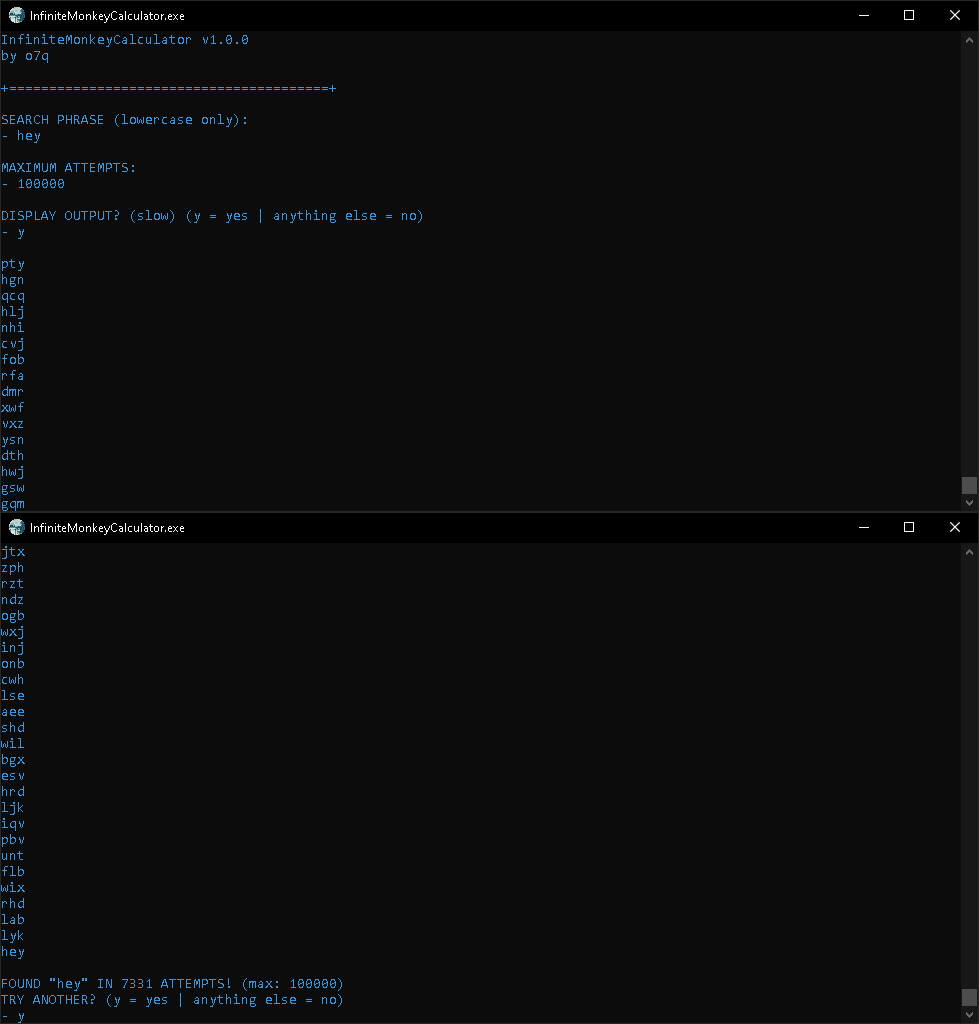
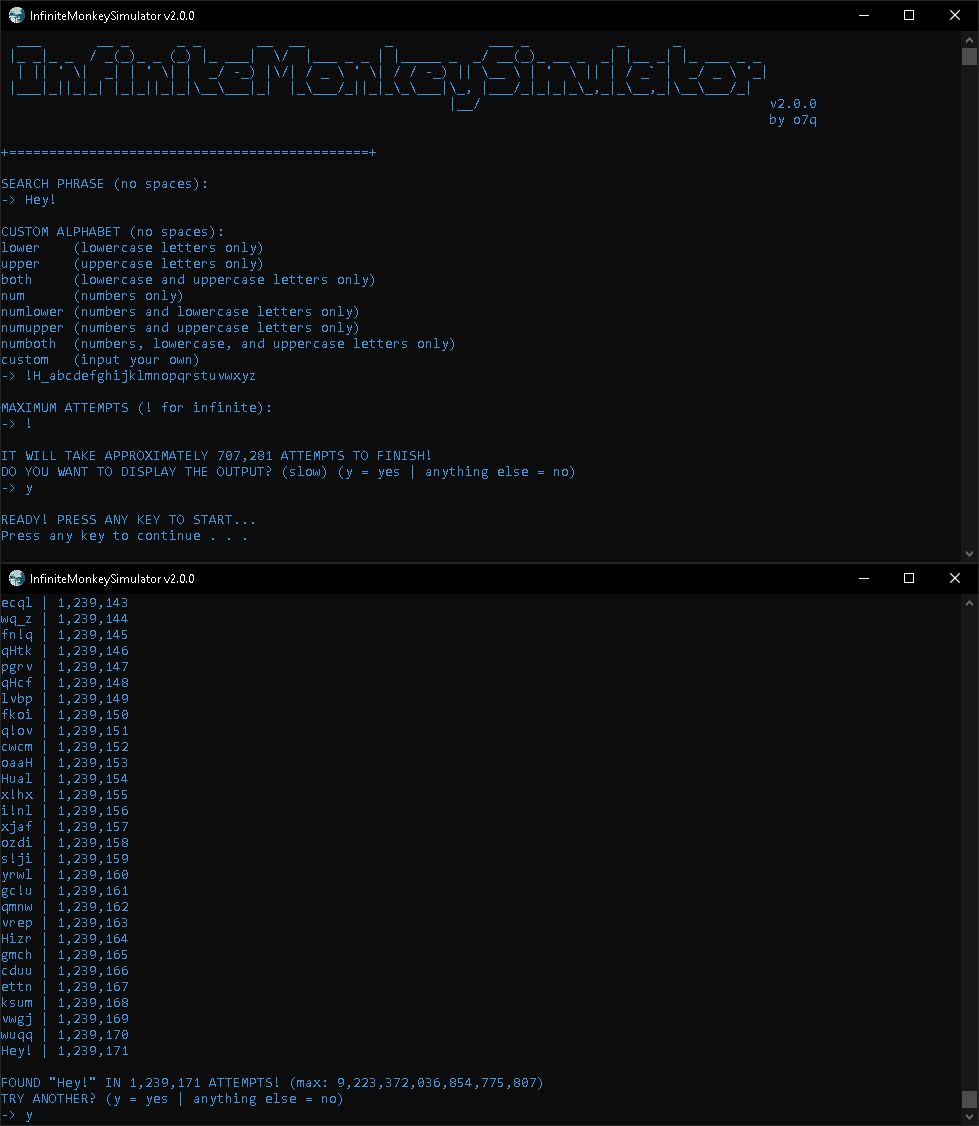
Major Update [v2.0.0]
- Change name from "InfiniteMonkeyCalculator" to "InfiniteMonkeySimulator"
- Added a new feature to specify a custom alphabet
- Made the numbers comma-separated by magnitude
- Added a feature to specify an infinite amount of attempts (capped at the 64-bit integer limit)
- Improved interface

diff --git a/src/InfiniteMonkeySimulator/main.cpp b/src/InfiniteMonkeySimulator/main.cpp
@@ -1,0 +1,172 @@
+#include <iostream>
+#include <string>
+#include <ctime>
+#include <random>
+#include <bits/stdc++.h>
+
+using namespace std;
+
+string formNum(long long int rawNum);
+string strRep(string charIn, int amount);
+void cc();
+
+const string ver = "v2.0.0";
+
+main()
+{
+    system(("title InfiniteMonkeySimulator " + ver).c_str());
+    system("color 3");
+    cout << "  ___       __ _      _ _       __  __          _            ___ _           _      _           \n"
+            " |_ _|_ _  / _(_)_ _ (_) |_ ___|  \\/  |___ _ _ | |_____ _  _/ __(_)_ __ _  _| |__ _| |_ ___ _ _ \n"
+            "  | || ' \\|  _| | ' \\| |  _/ -_) |\\/| / _ \\ ' \\| / / -_) || \\__ \\ | '  \\ || | / _` |  _/ _ \\ '_|\n"
+            " |___|_||_|_| |_|_||_|_|\\__\\___|_|  |_\\___/_||_|_\\_\\___|\\_, |___/_|_|_|_\\_,_|_\\__,_|\\__\\___/_|  \n"
+            "                                                        |__/                                    ";
+    cout << ver + "\n" + strRep(" ", 96) + "by o7q\n";
+    
+    while (true)
+    {
+        cout << "\n+" + strRep("=", 45) + "+\n";
+
+        cout << "\nSEARCH PHRASE (no spaces):\n-> ";
+        string input; cin >> input; cc();
+
+        // alphabet configuration
+
+        // alphabet input
+        cout << "\nCUSTOM ALPHABET (no spaces):\n"
+                "lower    (lowercase letters only)\n"
+                "upper    (uppercase letters only)\n"
+                "both     (lowercase and uppercase letters only)\n"
+                "num      (numbers only)\n"
+                "numlower (numbers and lowercase letters only)\n"
+                "numupper (numbers and uppercase letters only)\n"
+                "numboth  (numbers, lowercase, and uppercase letters only)\n"
+                "custom   (input your own)\n-> ";
+        string alphabet_input; cin >> alphabet_input; cc();
+        // declare alphabet information
+        string alphabet;
+        string alphabet_types[] =
+            {
+                "lower",
+                "upper",
+                "both",
+                "num",
+                "numlower",
+                "numupper",
+                "numboth"
+            };
+        string alphabet_dictionary[] =
+            {
+                "abcdefghijklmnopqrstuvwxyz",
+                "ABCDEFGHIJKLMNOPQRSTUVWXYZ",
+                "abcdefghijklmnopqrstuvwxyzABCDEFGHIJKLMNOPQRSTUVWXYZ",
+                "0123456789",
+                "0123456789abcdefghijklmnopqrstuvwxyz",
+                "0123456789ABCDEFGHIJKLMNOPQRSTUVWXYZ",
+                "0123456789abcdefghijklmnopqrstuvwxyzABCDEFGHIJKLMNOPQRSTUVWXYZ"
+            };
+        // process alphabet
+        for (int i = 0; i <= 7; i++) if (alphabet_input == alphabet_types[i]) alphabet = alphabet_dictionary[i];
+        // handle custom alphabet
+        int alphabet_type_index = 0;
+        for (int i = 0; i < 7; i++) if (alphabet_input != alphabet_types[i]) alphabet_type_index++;
+        if (alphabet_type_index == sizeof(alphabet_types) / sizeof(alphabet_types[0])) alphabet = alphabet_input;
+
+        cout << "\nMAXIMUM ATTEMPTS (! for infinite):\n-> ";
+        string attempts_str; cin >> attempts_str; cc();
+        long long int attempts = attempts_str == "!" ? 9223372036854775807 : stoi(attempts_str);
+
+        // compute attempts
+        const int input_length = input.length();
+        const int alphabet_length = alphabet.length();
+        const long long int attemptsApprox = pow(alphabet_length, input_length) + 1;
+        const string attemptsText = attempts == 1 ? "ATTEMPT" : "ATTEMPTS";
+
+        // create vars
+        int attempt = 0;
+        string finalStr;
+        bool isRunning = true;
+        // mersenne twister
+        srand(time(NULL));
+        mt19937 gen(rand());
+        uniform_int_distribution<> dist(0, alphabet_length - 1);
+
+        // split alphabet in chars
+        string s(alphabet);
+        vector<char> v(s.begin(), s.end());
+
+        cout << "\nIT WILL TAKE APPROXIMATELY " + formNum(attemptsApprox) + " ATTEMPTS TO FINISH!\nDO YOU WANT TO DISPLAY THE OUTPUT? (slow) (y = yes | anything else = no)\n-> ";
+        char displayOutput; cin >> displayOutput; cc();
+        cout << endl;
+
+        cout << "READY! PRESS ANY KEY TO START...\n";
+        system("pause");
+        cout << endl;
+
+        for (int i = 0; i < attempts; i++)
+        {
+            string str;
+            for (int n = 0; n < input_length; n++) { str += v[dist(gen)]; }
+            attempt++;
+
+            if (displayOutput == 'y') printf((str + " | " + formNum(attempt) + "\n").c_str());
+
+            if (str == input)
+            {
+                isRunning = false;
+                cout << "\nFOUND \"" + input + "\" IN " + formNum(attempt) + " " + attemptsText + "! (max: " + formNum(attempts) + ")\nTRY ANOTHER? (y = yes | anything else = no)\n-> ";
+                char r; cin >> r; cc();
+                if (r == 'y') break; else return 0;
+            }
+            finalStr = str;
+        }
+
+        if (finalStr != input && isRunning)
+        {
+            cout << "\nCOULD NOT FIND \"" + input + "\" IN " + formNum(attempts) + " " + attemptsText +"!\nRETRY? (y = yes | anything else = no)\n-> ";
+            char r; cin >> r; cc();
+            if (r != 'y') return 0;
+        }
+    }
+}
+
+string formNum(long long int rawNum)
+{
+    string numForm;
+    string num = to_string(rawNum);
+  
+    int count = 0;
+  
+    for (int i = num.size() - 1; i >= 0; i--)
+    {
+        count++;
+        numForm.push_back(num[i]);
+  
+        if (count == 3)
+        {
+            numForm.push_back(',');
+            count = 0;
+        }
+    }
+  
+    reverse(numForm.begin(), numForm.end());
+  
+    if (numForm.size() % 4 == 0) numForm.erase(numForm.begin());
+  
+    return numForm;
+}
+
+// string repeater function
+string strRep(string charIn, int amount)
+{
+    string output;
+    for (int i = 0; i < amount; i++) output += charIn;
+    return output;
+}
+
+// cin clear function
+void cc()
+{
+    cin.clear();
+    cin.sync();
+}

diff --git a/README.md b/README.md
@@ -1,6 +1,6 @@
 <img src="assets/images/icon.png">
 
-# [<b>>> Download Latest</b>](https://github.com/o7q/InfiniteMonkeyCalculator/releases/download/v1.0.0/InfiniteMonkeyCalculator.exe)
+# [<b>>> Download Latest</b>](https://github.com/o7q/InfiniteMonkeySimulator/releases/download/v2.0.0/InfiniteMonkeySimulator.exe)
 <h3>Simulate an immortal monkey typing on a typewriter.</h3>
 
 ---
@@ -14,7 +14,7 @@ A super simple program I made in an hour. It allows you to simulate how many att
 
 I made this for fun using the <b>Mersenne Twister</b> pseudorandom number generator: https://en.wikipedia.org/wiki/Mersenne_Twister
 
-<b>InfiniteMonkeyCalculator</b> is based on the <b>Infinite Monkey Theorem</b>: https://en.wikipedia.org/wiki/Infinite_monkey_theorem
+<b>InfiniteMonkeySimulator</b> is based on the <b>Infinite Monkey Theorem</b>: https://en.wikipedia.org/wiki/Infinite_monkey_theorem
 
 ---
 
@@ -22,10 +22,19 @@ I made this for fun using the <b>Mersenne Twister</b> pseudorandom number genera
 
 ## <b>Interface</b>
 - <b>Search Phrase</b> Phrase you want to search for
-- <b>Maximum Attempts</b> Maximum search attempts
+- <b>Maximum Attempts</b> Maximum search attempts (! for infinite, capped at the 64-bit integer limit)
+- <b>Custom Alphabet</b>
+    - <b>Lower</b> Lowercase letters only
+    - <b>Upper</b> Uppercase letters only
+    - <b>Both</b> Lowercase and uppercase letters only
+    - <b>Num</b> Numbers only
+    - <b>NumLower</b>Numbers and lowercase letters only
+    - <b>NumUpper</b> Numbers and uppercase letters only
+    - <b>NumBoth</b> Numbers, lowercase, and uppercase letters only
+    - <b>Custom</b> Input your own
 - <b>Display Output</b> Should it output the strings (greatly slows down program)
 
 ---
 
-<b>InfiniteMonkeyCalculator</b> \
+<b>InfiniteMonkeySimulator</b> \
 Programmed with C++ and compiled using MinGW G++
